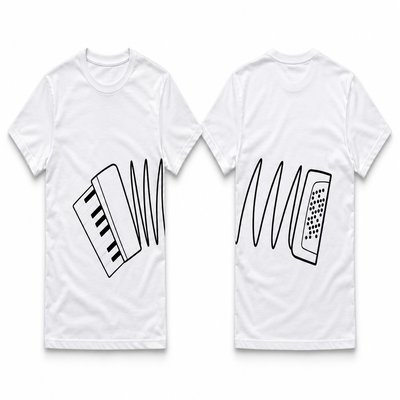
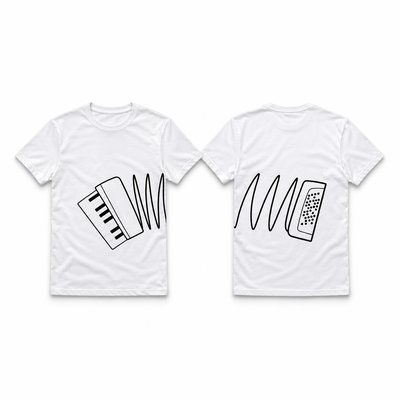
Update site

diff --git a/index.html b/index.html
@@ -85,7 +85,7 @@
 <script src="data/catalog.js"></script>
 <script src="data/catalog-i18n.js?v=4"></script>
 <script src="data/photos.js"></script>
-<script src="data/gpt_photos.js?v=7"></script>
+<script src="data/gpt_photos.js?v=8"></script>
 <script src="data/cat_intro.js?v=1"></script>
 <script src="data/api.js?v=1"></script>
 <script src="chat.js?v=2"></script>
